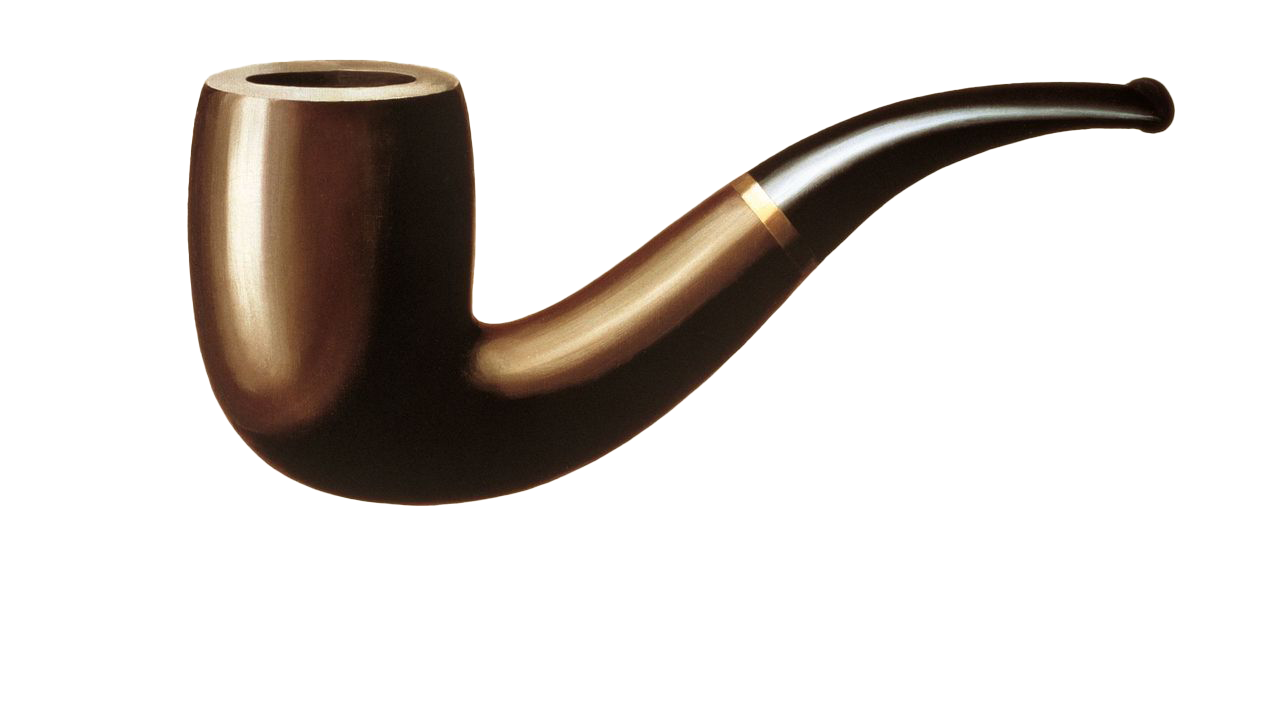
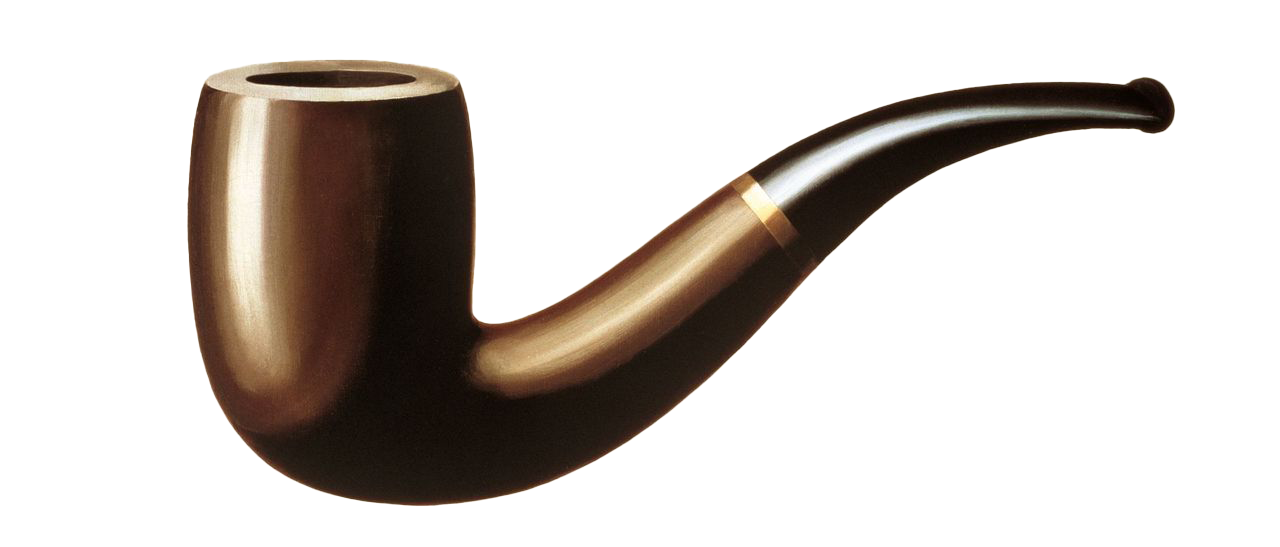
pipe down

Changed region(s): [[0.125, 0.0932, 0.9375, 0.9324], [0.125, 0.0622, 0.375, 0.3108]]

diff --git a/index.html b/index.html
@@ -78,6 +78,10 @@
             transition: transform 0.3s ease, opacity 0.3s ease;
         }
 
+        .pipe-image {
+    margin-top: 30px; /* Adjust the value to move it down */
+        }
+
         .quote-container img:hover {
             transform: scale(1.1); /* Slight zoom effect on hover */
             opacity: 0.8; /* Slight transparency on hover */
@@ -138,11 +142,11 @@
         </a>
 
         <a href="quote2.html">
-            <img src="pipe.png" alt="Quote 2">
-        </a>
+          <img src="pipe.png" alt="Quote 2" class="pipe-image">
+      </a>
 
         <a href="quote3.html">
-            <img src="fan.png" alt="Quote 3">
+            <img src="apple.png" alt="Quote 3">
         </a>
 
         <a href="quote4.html">
